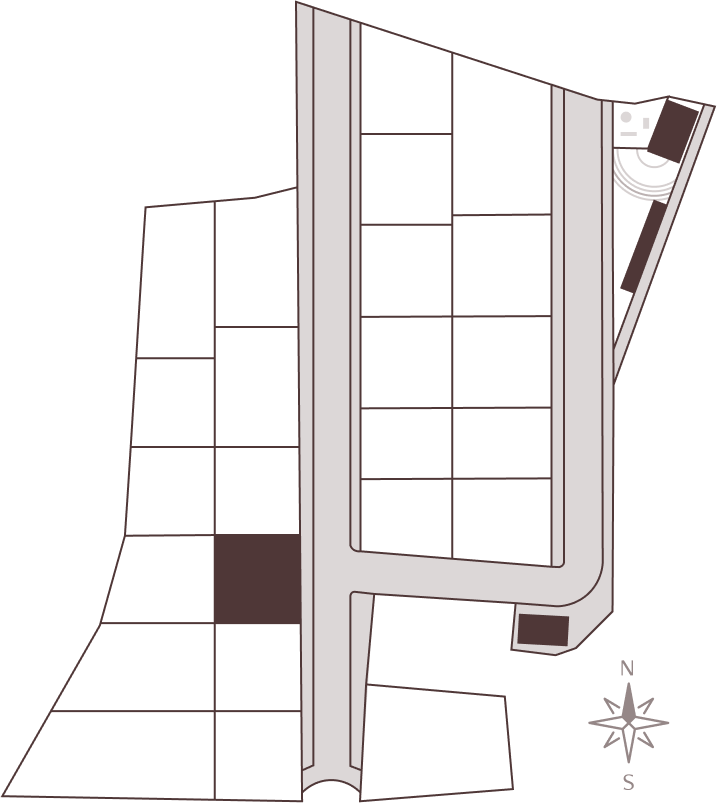
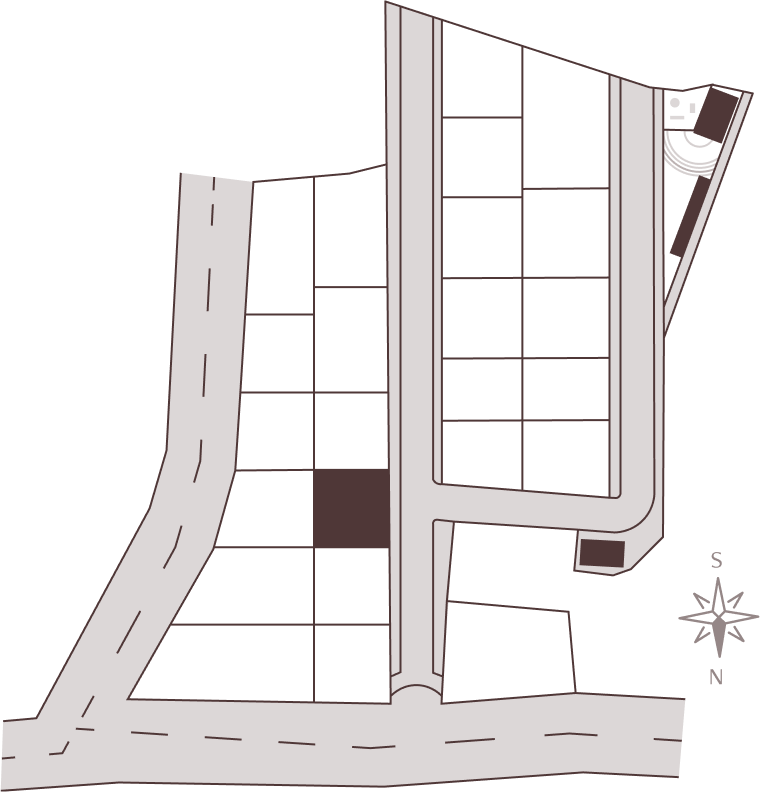
map updated

diff --git a/src/components/HomePageComponents/CurrentProject/CurrentProject.tsx b/src/components/HomePageComponents/CurrentProject/CurrentProject.tsx
@@ -29,7 +29,7 @@ const PROJECT_DATA = {
       " Where comfort meets affordability, and thoughtful design creates a sense of home. Vilasam blends refined living with everyday functionality—elegant spaces built to inspire joy, connection, & a lasting sense of belonging.",
   },
   cta: "Explore the Project Now",
-  image: "/images/currentProjectImageUpdated/27.png",
+  image: "/images/currentProjectImageUpdated/25.png",
 };
 
 const STATS_DATA = [
@@ -46,7 +46,7 @@ const LOCATIONS: Location[] = [
   {
     id: 1,
     name: "Section 1",
-    position: "lg:left-[24%]  lg:top-[45%] left-[22%] top-[48%]  lg:w-[65px]  lg:h-[70px]",
+    position: "lg:left-[30%]  lg:top-[40%] left-[22%] top-[48%]  lg:w-[65px]  lg:h-[70px]",
     imagePath: "/images/currentProjectImageUpdated/3.png",
     description: [
       { value: "West Facing Plots", label: "4.00 Cents" },
@@ -60,7 +60,7 @@ const LOCATIONS: Location[] = [
   {
     id: 2,
     name: "Section 2",
-    position: "left-[22%] top-[54%] lg:left-[23.8%] lg:top-[57%]  lg:w-[70px]  lg:h-[70px]",
+    position: "left-[22%] top-[54%] lg:left-[29.8%] lg:top-[52%]  lg:w-[70px]  lg:h-[70px]",
     imagePath: "/images/currentProjectImageUpdated/4.png",
     description: [
       { value: "East Facing Plots", label: "4.20 Cents" },
@@ -74,7 +74,7 @@ const LOCATIONS: Location[] = [
   {
     id: 3,
     name: "Section 3",
-    position: "left-[21%] top-[63%] md:left-[23%] md:top-[62%] lg:left-[23%] lg:top-[67%]  lg:w-[70px]  lg:h-[70px]",
+    position: "left-[21%] top-[63%] md:left-[23%] md:top-[62%] lg:left-[29%] lg:top-[62%]  lg:w-[70px]  lg:h-[70px]",
     imagePath: "/images/currentProjectImageUpdated/5.png",
     description: [
       { value: "East Facing Plots", label: "4.80 Cents" },
@@ -88,7 +88,7 @@ const LOCATIONS: Location[] = [
   {
     id: 4,
     name: "Section 4",
-    position: "left-[19.5%] top-[71%] md:left-[19.5%] md:top-[72%] lg:left-[16.5%] lg:top-[77%]  lg:w-24  lg:h-[68px]",
+    position: "left-[19.5%] top-[71%] md:left-[19.5%] md:top-[72%] lg:left-[22.5%] lg:top-[72%]  lg:w-24  lg:h-[68px]",
     imagePath: "/images/currentProjectImageUpdated/6.png",
     description: [
       { value: "West Facing Plots", label: "6.60 Cents" },
@@ -102,7 +102,7 @@ const LOCATIONS: Location[] = [
   {
     id: 5,
     name: "Section 5",
-    position: "left-[14.5%] top-[77%] lg:left-[12.5%] lg:top-[88%] md:left-[14.5%] md:top-[82.5%]  lg:w-[130px]  lg:h-[70px]",
+    position: "left-[14.5%] top-[77%] lg:left-[18.5%] lg:top-[83%] md:left-[14.5%] md:top-[82.5%]  lg:w-[130px]  lg:h-[70px]",
     imagePath: "/images/currentProjectImageUpdated/7.png",
     description: [
       { value: "West Facing Plots", label: "7.80 Cents" },
@@ -116,7 +116,7 @@ const LOCATIONS: Location[] = [
   {
     id: 6,
     name: "Section 6",
-    position: "left-[34%] top-[77%] lg:left-[33%] lg:top-[88.7%] md:left-[34%] md:top-[82.7%] lg:w-[70px] lg:h-[70px]",
+    position: "left-[34%] top-[71%] md:left-[34%] md:top-[72%] lg:left-[40%] lg:top-[72%]  lg:w-[70px]  lg:h-[68px]",
     imagePath: "/images/currentProjectImageUpdated/8.png",
     description: [
       { value: "West Facing Plots", label: "4.00 Cents" },
@@ -130,7 +130,7 @@ const LOCATIONS: Location[] = [
   {
     id: 7,
     name: "Section 7",
-    position: "left-[34%] top-[71%] md:left-[34%] md:top-[72%] lg:left-[34%] lg:top-[77%]  lg:w-[70px]  lg:h-[68px]",
+    position: "left-[34%] top-[63%] md:left-[34%] md:top-[64%] lg:left-[40%] lg:top-[62%]  lg:w-[70px]  lg:h-[70px]",
     imagePath: "/images/currentProjectImageUpdated/9.png",
     description: [
       { value: "West Facing Plots", label: "4.00 Cents" },
@@ -144,7 +144,7 @@ const LOCATIONS: Location[] = [
   {
     id: 8,
     name: "Section 8",
-    position: "left-[34%] top-[63%] md:left-[34%] md:top-[64%] lg:left-[34%] lg:top-[67%]  lg:w-[70px]  lg:h-[70px]",
+    position: "left-[33.9%] top-[55%] lg:left-[39.9%] lg:top-[52%]   lg:w-[70px]  lg:h-[65px]",
     imagePath: "/images/currentProjectImageUpdated/10.png",
     description: [
       { value: "West Facing Plots", label: "4.00 Cents" },
@@ -158,22 +158,8 @@ const LOCATIONS: Location[] = [
   {
     id: 9,
     name: "Section 9",
-    position: "left-[33.9%] top-[55%] lg:left-[33.9%] lg:top-[57%]   lg:w-[70px]  lg:h-[65px]",
+    position: "left-[34%] top-[45%] lg:left-[40%] lg:top-[36%]  lg:w-[70px]  lg:h-[97px]",
     imagePath: "/images/currentProjectImageUpdated/11.png",
-    description: [
-      { value: "West Facing Plots", label: "4.00 Cents" },
-      {
-        value: "",
-        label:
-          "Known for welcoming the soft golden glow of the evening sun, west-facing plots are a perfect blend of comfort and warmth. Ideal for those who enjoy cooler mornings and brighter late afternoons, these plots are thoughtfully positioned to maximize natural light while offering serene sunset views right from your doorstep.",
-      },
-    ],
-  },
-  {
-    id: 10,
-    name: "Section 10",
-    position: "left-[34%] top-[45%] lg:left-[34%] lg:top-[41%]  lg:w-[70px]  lg:h-[97px]",
-    imagePath: "/images/currentProjectImageUpdated/12.png",
     description: [
       { value: "West Facing Plots", label: "5.45 Cents" },
       {
@@ -184,10 +170,10 @@ const LOCATIONS: Location[] = [
     ],
   },
   {
-    id: 11,
-    name: "Section 11",
-    position: "left-[34%] top-[34%] md:left-[34%] md:top-[27%] lg:left-[34%] lg:top-[27%]  lg:w-[70px]  lg:h-[78px]",
-    imagePath: "/images/currentProjectImageUpdated/13.png",
+    id: 10,
+    name: "Section 10",
+    position: "left-[34%] top-[34%] md:left-[34%] md:top-[27%] lg:left-[40%] lg:top-[22%]  lg:w-[70px]  lg:h-[78px]",
+    imagePath: "/images/currentProjectImageUpdated/12.png",
     description: [
       { value: "West Facing Plots", label: "5.00 Cents" },
       {
@@ -198,10 +184,10 @@ const LOCATIONS: Location[] = [
     ],
   },
   {
-    id: 12,
-    name: "Section 12",
-    position: "left-[88%] top-[27%] lg:left-[80%] md:top-[17%] lg:top-[13%]  lg:w-[60px]  lg:h-[70px]",
-    imagePath: "/images/currentProjectImageUpdated/27.png",
+    id: 11,
+    name: "Section 11",
+    position: "left-[88%] top-[27%] lg:left-[86%] md:top-[17%] lg:top-[8%]  lg:w-[60px]  lg:h-[70px]",
+    imagePath: "/images/currentProjectImageUpdated/13.png",
     description: [
       { value: "East Facing Plots", label: "6.57 Cents" },
       {
@@ -212,10 +198,10 @@ const LOCATIONS: Location[] = [
     ],
   },
   {
-    id: 13,
-    name: "Section 13",
-    position: "left-[83%] top-[35%] md:left-[85%] md:top-[29%] lg:left-[79.5%] lg:top-[27%]  lg:w-10  lg:h-16",
-    imagePath: "/images/currentProjectImageUpdated/27.png",
+    id: 12,
+    name: "Section 12",
+    position: "left-[83%] top-[35%] md:left-[85%] md:top-[29%] lg:left-[85.5%] lg:top-[22%]  lg:w-10  lg:h-16",
+    imagePath: "/images/currentProjectImageUpdated/25.png",
     description: [
       { value: "Tech Hub", label: "Co-working Spaces" },
       {
@@ -226,10 +212,10 @@ const LOCATIONS: Location[] = [
     ],
   },
   {
-    id: 14,
-    name: "Section 14",
-    position: "left-[66%] top-[58%] lg:left-[62%] lg:top-[60%]  lg:w-[70px]  lg:h-[65px]",
-    imagePath: "/images/currentProjectImageUpdated/16.png",
+    id: 13,
+    name: "Section 13",
+    position: "left-[66%] top-[58%] lg:left-[68%] lg:top-[55%]  lg:w-[70px]  lg:h-[65px]",
+    imagePath: "/images/currentProjectImageUpdated/14.png",
     description: [
       { value: "Corner Plots", label: "3.65 Cents" },
       {
@@ -240,10 +226,10 @@ const LOCATIONS: Location[] = [
     ],
   },
   {
-    id: 15,
-    name: "Section 15",
-    position: "left-[67%] top-[51%] lg:left-[61.8%] lg:top-[50.8%]  lg:w-[70px]  lg:h-[58px]",
-    imagePath: "/images/currentProjectImageUpdated/17.png",
+    id: 14,
+    name: "Section 14",
+    position: "left-[67%] top-[51%] lg:left-[67.8%] lg:top-[50.8%]  lg:w-[70px]  lg:h-[58px]",
+    imagePath: "/images/currentProjectImageUpdated/15.png",
     description: [
       { value: "East Facing Plots", label: "3.90 Cents" },
       {
@@ -254,10 +240,10 @@ const LOCATIONS: Location[] = [
     ],
   },
   {
-    id: 16,
-    name: "Section 16",
-    position: "left-[67%] top-[42%]  md:top-[39%]  lg:left-[61.9%] lg:top-[39%] lg:w-[70px]  lg:h-[74px]",
-    imagePath: "/images/currentProjectImageUpdated/18.png",
+    id: 15,
+    name: "Section 15",
+    position: "left-[67%] top-[42%]  md:top-[39%]  lg:left-[67.9%] lg:top-[34%] lg:w-[70px]  lg:h-[74px]",
+    imagePath: "/images/currentProjectImageUpdated/16.png",
     description: [
       { value: "East Facing Plots", label: "4.50 Cents" },
       {
@@ -268,10 +254,10 @@ const LOCATIONS: Location[] = [
     ],
   },
   {
-    id: 17,
-    name: "Section 17",
-    position: "left-[66%] top-[34%] md:left-[67%] md:top-[27%] lg:left-[62%] lg:top-[26%]  lg:w-[70px]  lg:h-[78px]",
-    imagePath: "/images/currentProjectImageUpdated/19.png",
+    id: 16,
+    name: "Section 16",
+    position: "left-[66%] top-[34%] md:left-[67%] md:top-[27%] lg:left-[68%] lg:top-[21%]  lg:w-[70px]  lg:h-[78px]",
+    imagePath: "/images/currentProjectImageUpdated/17.png",
     description: [
       { value: "East Facing Plots", label: "5.00 Cents" },
       {
@@ -282,10 +268,10 @@ const LOCATIONS: Location[] = [
     ],
   },
   {
-    id: 18,
-    name: "Section 18",
-    position: "left-[66%] top-[25%] md:left-[67%] md:top-[15%] lg:left-[62%] lg:top-[10%]  lg:w-[70px]  lg:h-[84px]",
-    imagePath: "/images/currentProjectImageUpdated/20.png",
+    id: 17,
+    name: "Section 17",
+    position: "left-[66%] top-[25%] md:left-[67%] md:top-[15%] lg:left-[68%] lg:top-[5%]  lg:w-[70px]  lg:h-[84px]",
+    imagePath: "/images/currentProjectImageUpdated/18.png",
     description: [
       { value: "East Facing Plots", label: "5.80 Cents" },
       {
@@ -296,10 +282,10 @@ const LOCATIONS: Location[] = [
     ],
   },
   {
-    id: 19,
-    name: "Section 19",
-    position: "left-[55%] top-[20%] md:left-[53%] md:top-[8%] lg:left-[51%] lg:top-[7%]  lg:w-[70px]  lg:h-[54px]",
-    imagePath: "/images/currentProjectImageUpdated/21.png",
+    id: 18,
+    name: "Section 18",
+    position: "left-[55%] top-[20%] md:left-[53%] md:top-[8%] lg:left-[57%] lg:top-[2%]  lg:w-[70px]  lg:h-[54px]",
+    imagePath: "/images/currentProjectImageUpdated/19.png",
     description: [
       { value: "East Facing Plots", label: "3.35 Cents" },
       {
@@ -310,10 +296,10 @@ const LOCATIONS: Location[] = [
     ],
   },
   {
-    id: 20,
-    name: "Section 20",
-    position: "left-[55%] top-[29%] md:left-[53%] md:top-[16%]  lg:left-[51%] lg:top-[16.6%]  lg:w-[70px]  lg:h-[70px]",
-    imagePath: "/images/currentProjectImageUpdated/22.png",
+    id: 19,
+    name: "Section 19",
+    position: "left-[55%] top-[29%] md:left-[53%] md:top-[16%]  lg:left-[57%] lg:top-[16.6%]  lg:w-[70px]  lg:h-[70px]",
+    imagePath: "/images/currentProjectImageUpdated/20.png",
     description: [
       { value: "East Facing Plots", label: "4.50 Cents" },
       {
@@ -324,10 +310,24 @@ const LOCATIONS: Location[] = [
     ],
   },
   {
+    id: 20,
+    name: "Section 20",
+    position: "left-[54%]  top-[35%] md:left-[54%]  md:top-[27%] lg:left-[57%]  lg:top-[28.8%]  lg:w-[70px]  lg:h-[70px]",
+    imagePath: "/images/currentProjectImageUpdated/21.png",
+    description: [
+      { value: "West Facing Plots", label: "4.50 Cents" },
+      {
+        value: "",
+        label:
+          "Known for welcoming the soft golden glow of the evening sun, west-facing plots are a perfect blend of comfort and warmth. Ideal for those who enjoy cooler mornings and brighter late afternoons, these plots are thoughtfully positioned to maximize natural light while offering serene sunset views right from your doorstep.",
+      },
+    ],
+  },
+  {
     id: 21,
     name: "Section 21",
-    position: "left-[54%]  top-[35%] md:left-[54%]  md:top-[27%] lg:left-[51%]  lg:top-[28.8%]  lg:w-[70px]  lg:h-[70px]",
-    imagePath: "/images/currentProjectImageUpdated/23.png",
+    position: "left-[53%] top-[44%] lg:left-[57%] md:top-[39%] lg:top-[35%]  lg:w-[70px]  lg:h-[70px]",
+    imagePath: "/images/currentProjectImageUpdated/22.png",
     description: [
       { value: "West Facing Plots", label: "4.50 Cents" },
       {
@@ -340,22 +340,8 @@ const LOCATIONS: Location[] = [
   {
     id: 22,
     name: "Section 22",
-    position: "left-[53%] top-[44%] lg:left-[51%] md:top-[39%] lg:top-[40%]  lg:w-[70px]  lg:h-[70px]",
-    imagePath: "/images/currentProjectImageUpdated/24.png",
-    description: [
-      { value: "West Facing Plots", label: "4.50 Cents" },
-      {
-        value: "",
-        label:
-          "Known for welcoming the soft golden glow of the evening sun, west-facing plots are a perfect blend of comfort and warmth. Ideal for those who enjoy cooler mornings and brighter late afternoons, these plots are thoughtfully positioned to maximize natural light while offering serene sunset views right from your doorstep.",
-      },
-    ],
-  },
-  {
-    id: 23,
-    name: "Section 23",
-    position: "left-[55%] top-[77%] lg:left-[52%] lg:top-[85%] md:left-[55%] md:top-[84%]  lg:w-[100px]  lg:h-[80px]",
-    imagePath: "/images/currentProjectImageUpdated/25.png",
+    position: "left-[55%] top-[77%] lg:left-[58%] lg:top-[80%] md:left-[55%] md:top-[84%]  lg:w-[100px]  lg:h-[80px]",
+    imagePath: "/images/currentProjectImageUpdated/23.png",
     description: [
       { value: "Corner Plots", label: "7.60 Cents" },
       {
@@ -366,10 +352,10 @@ const LOCATIONS: Location[] = [
     ],
   },
   {
-    id: 24,
-    name: "Section 24",
-    position: "left-[54%] top-[51%] lg:left-[51%] lg:top-[49.8%]  lg:w-[70px]  lg:h-[58px]",
-    imagePath: "/images/currentProjectImageUpdated/26.png",
+    id: 23,
+    name: "Section 23",
+    position: "left-[54%] top-[51%] lg:left-[57%] lg:top-[49.8%]  lg:w-[70px]  lg:h-[58px]",
+    imagePath: "/images/currentProjectImageUpdated/24.png",
     description: [
       { value: "West Facing Plots", label: "3.60 Cents" },
       {
@@ -380,10 +366,10 @@ const LOCATIONS: Location[] = [
     ],
   },
   {
-    id: 25,
-    name: "Section 25",
-    position: "lg:left-[24.9%] lg:top-[28%] left-[22%] top-[36%]   lg:w-[60px]  lg:h-[100px]",
-    imagePath: "/images/currentProjectImageUpdated/28.png",
+    id: 24,
+    name: "Section 24",
+    position: "lg:left-[30.9%] lg:top-[23%] left-[22%] top-[36%]   lg:w-[60px]  lg:h-[100px]",
+    imagePath: "/images/currentProjectImageUpdated/2.png",
     description: [
       { value: "West Facing Plots", label: "5.40 Cents" },
       {
@@ -394,9 +380,23 @@ const LOCATIONS: Location[] = [
     ],
   },
   {
+    id: 25,
+    name: "Section 25",
+    position: "left-[54%] top-[58%] lg:left-[57%] lg:top-[55%]    lg:w-[70px]  lg:h-[55px]",
+    imagePath: "/images/currentProjectImageUpdated/29.png",
+    description: [
+      { value: "East Facing Plots", label: "3.55 Cents" },
+      {
+        value: "",
+        label:
+          "Designed for early risers and energy-conscious living, east-facing plots bask in the gentle morning light. These plots are ideal for building vastu-compliant homes that align with traditional preferences and modern needs, offering a peaceful start to every day.",
+      },
+    ],
+  },
+  {
     id: 26,
     name: "Section 26",
-    position: "left-[54%] top-[58%] lg:left-[51%] lg:top-[60%]    lg:w-[70px]  lg:h-[55px]",
+    position: "left-[54%] top-[58%] lg:left-[57%] lg:top-[55%]    lg:w-[70px]  lg:h-[55px]",
     imagePath: "/images/currentProjectImageUpdated/29.png",
     description: [
       { value: "East Facing Plots", label: "3.55 Cents" },
